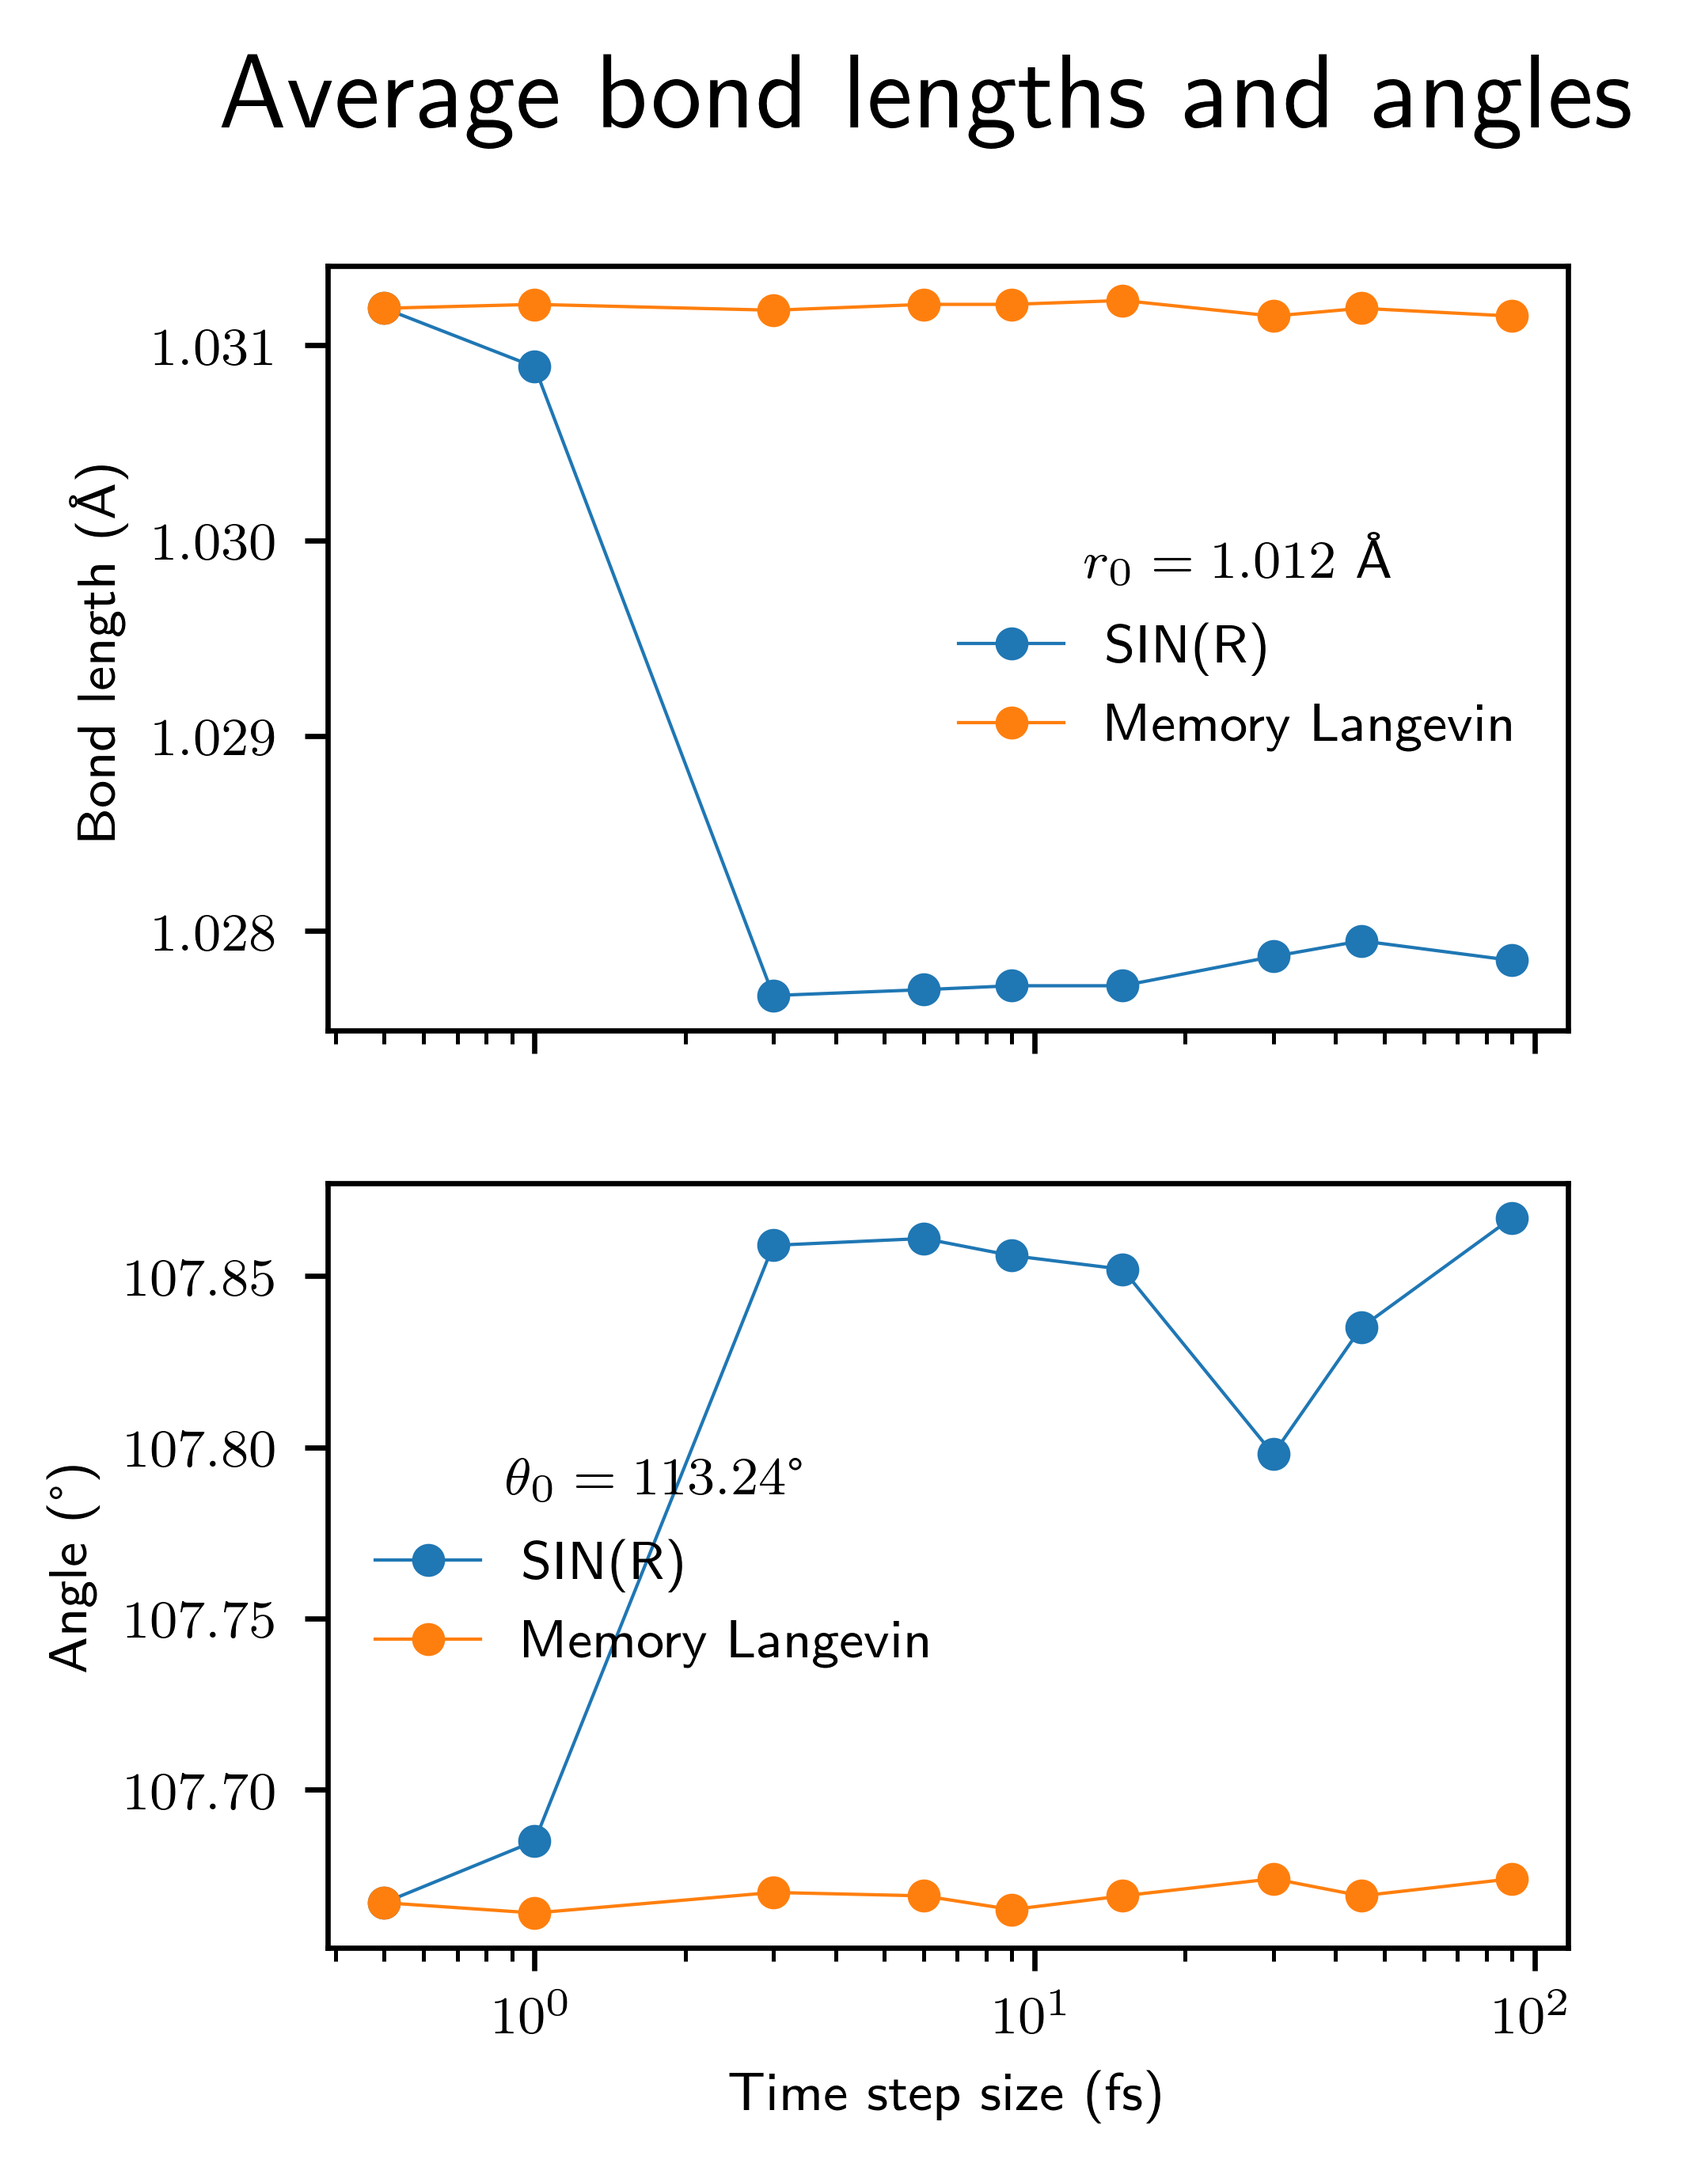
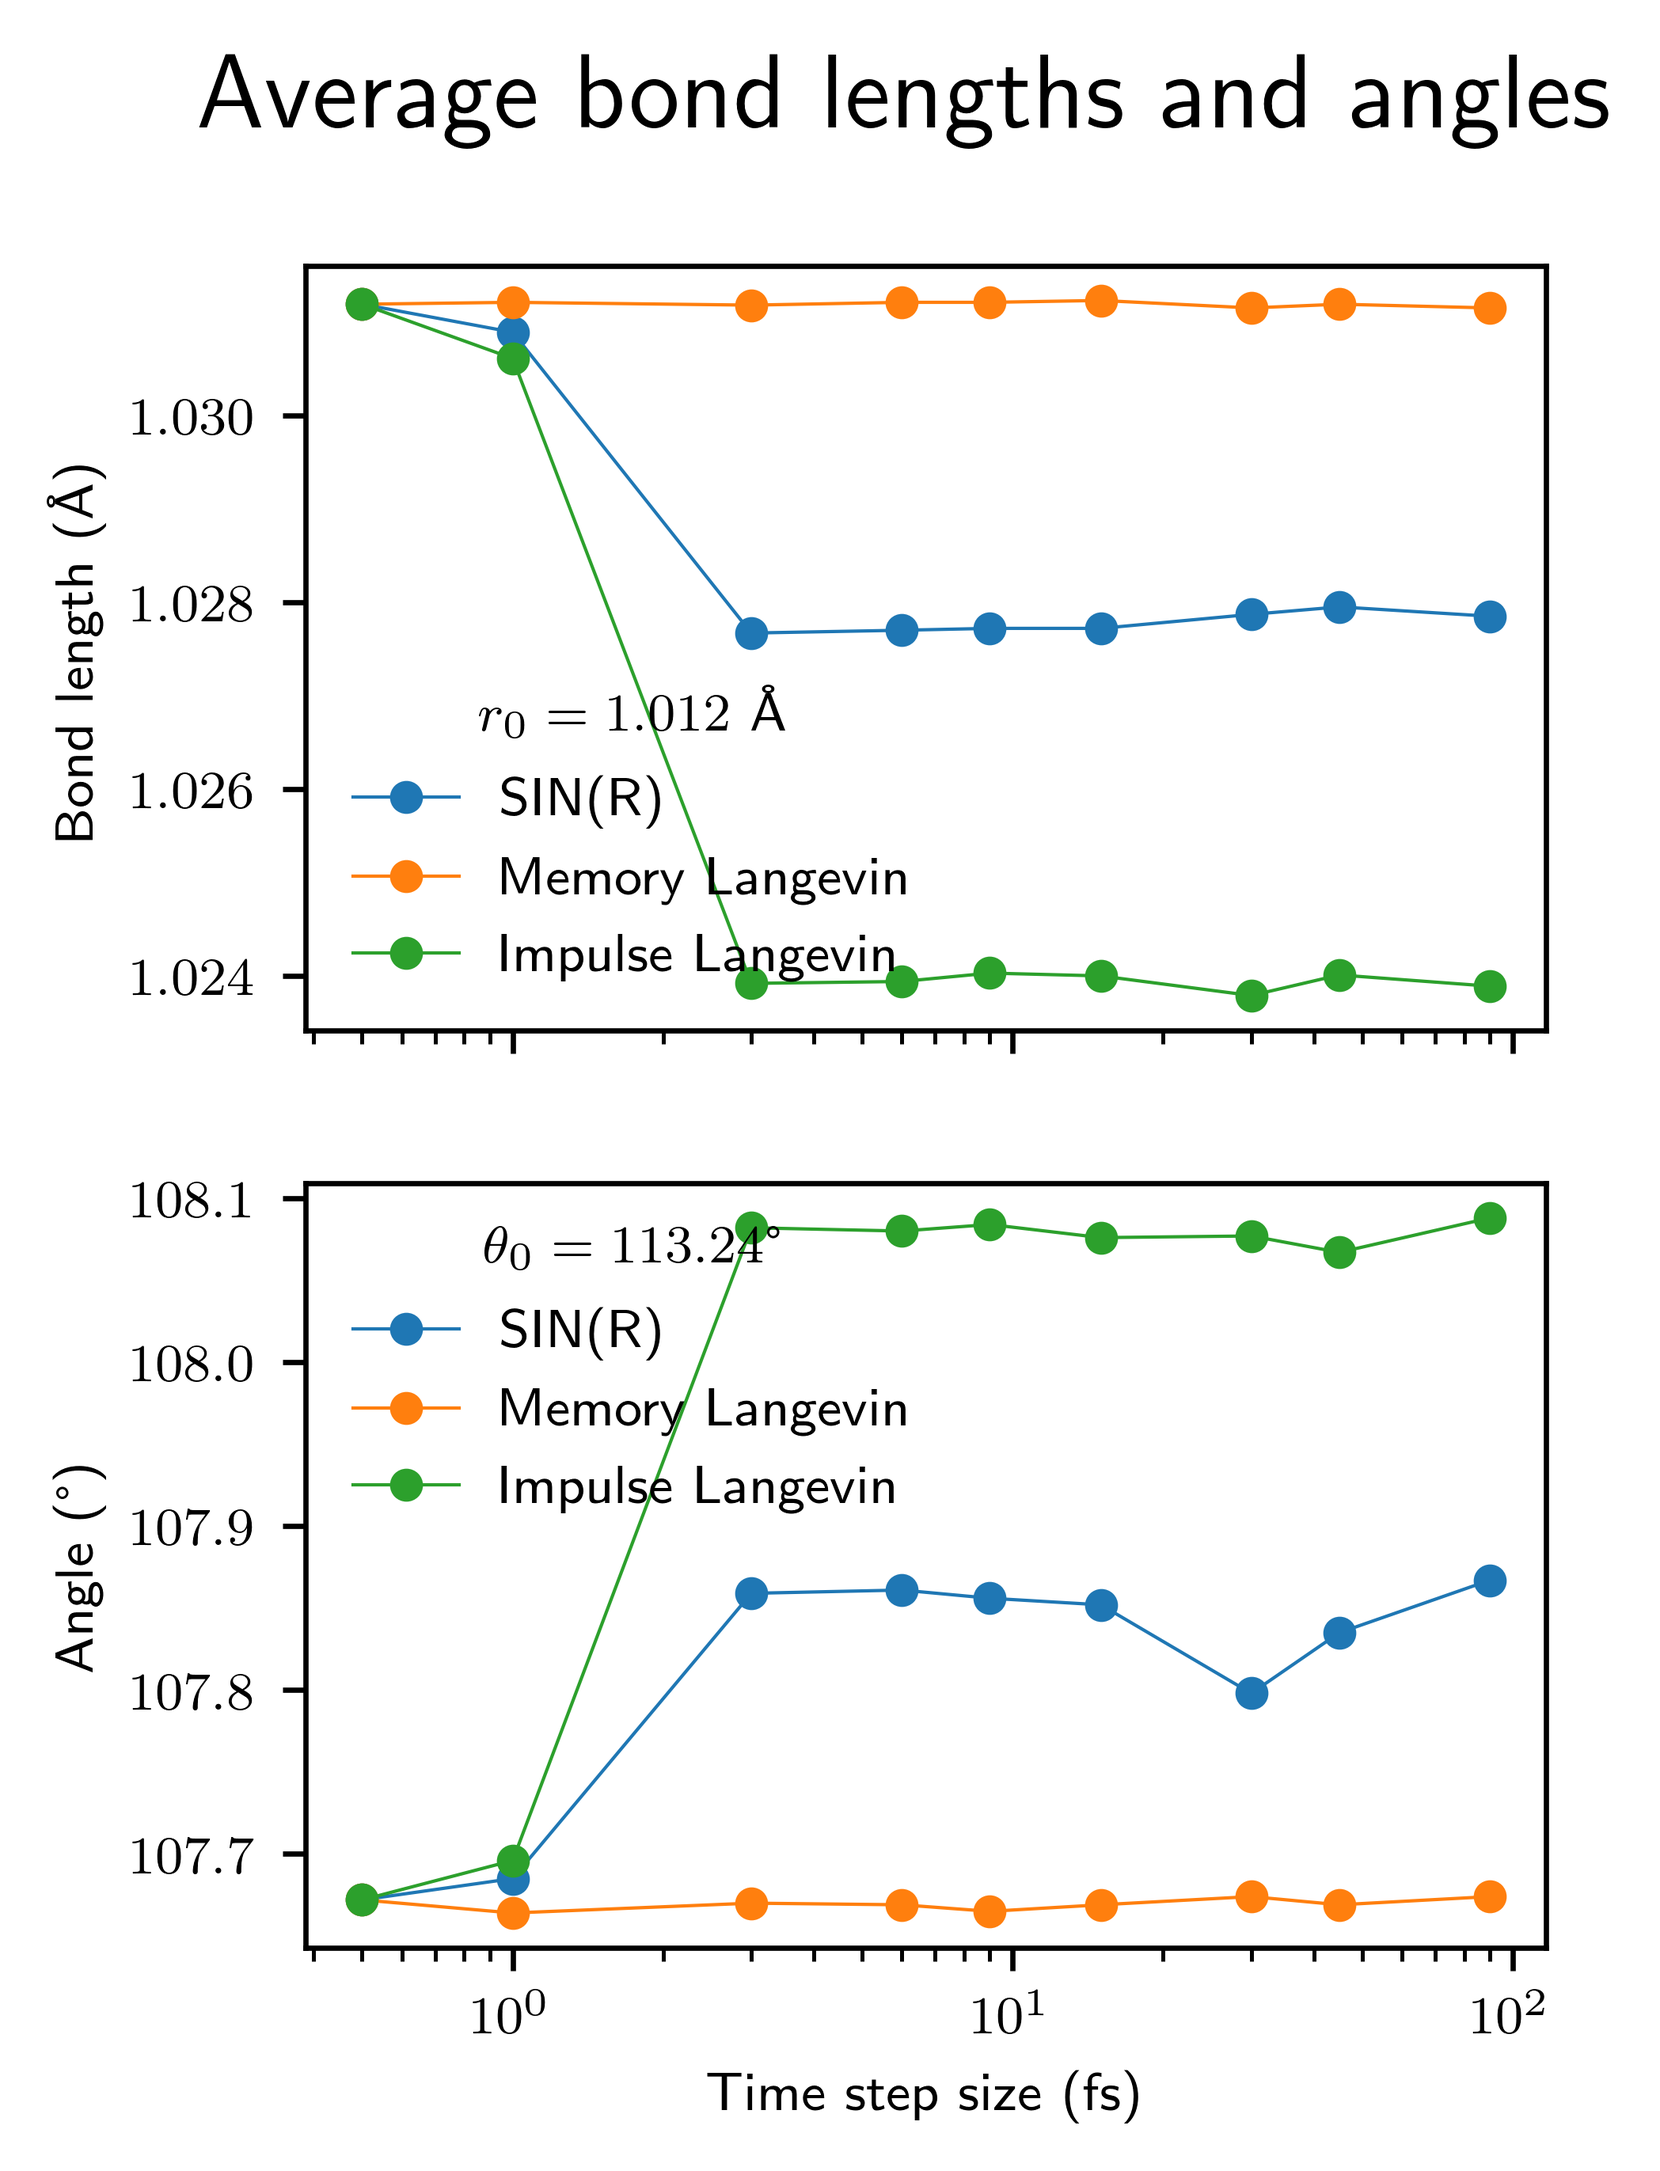
Change of all 0.5 fs results to BAOAB

diff --git a/water/plots.py b/water/plots.py
@@ -7,7 +7,7 @@ import os
 from scipy.fftpack import fft
 
 dt_scaling = 'log'
-methods = dict(sinr='SIN(R)', langevin='Memory Langevin')
+methods = dict(sinr='SIN(R)', langevin='Memory Langevin', impulse='Impulse Langevin')
 tools = methods.keys()
 step_size = {'0.5': 0.5}
 label = {'0.5': '0.5 fs (*)'}
